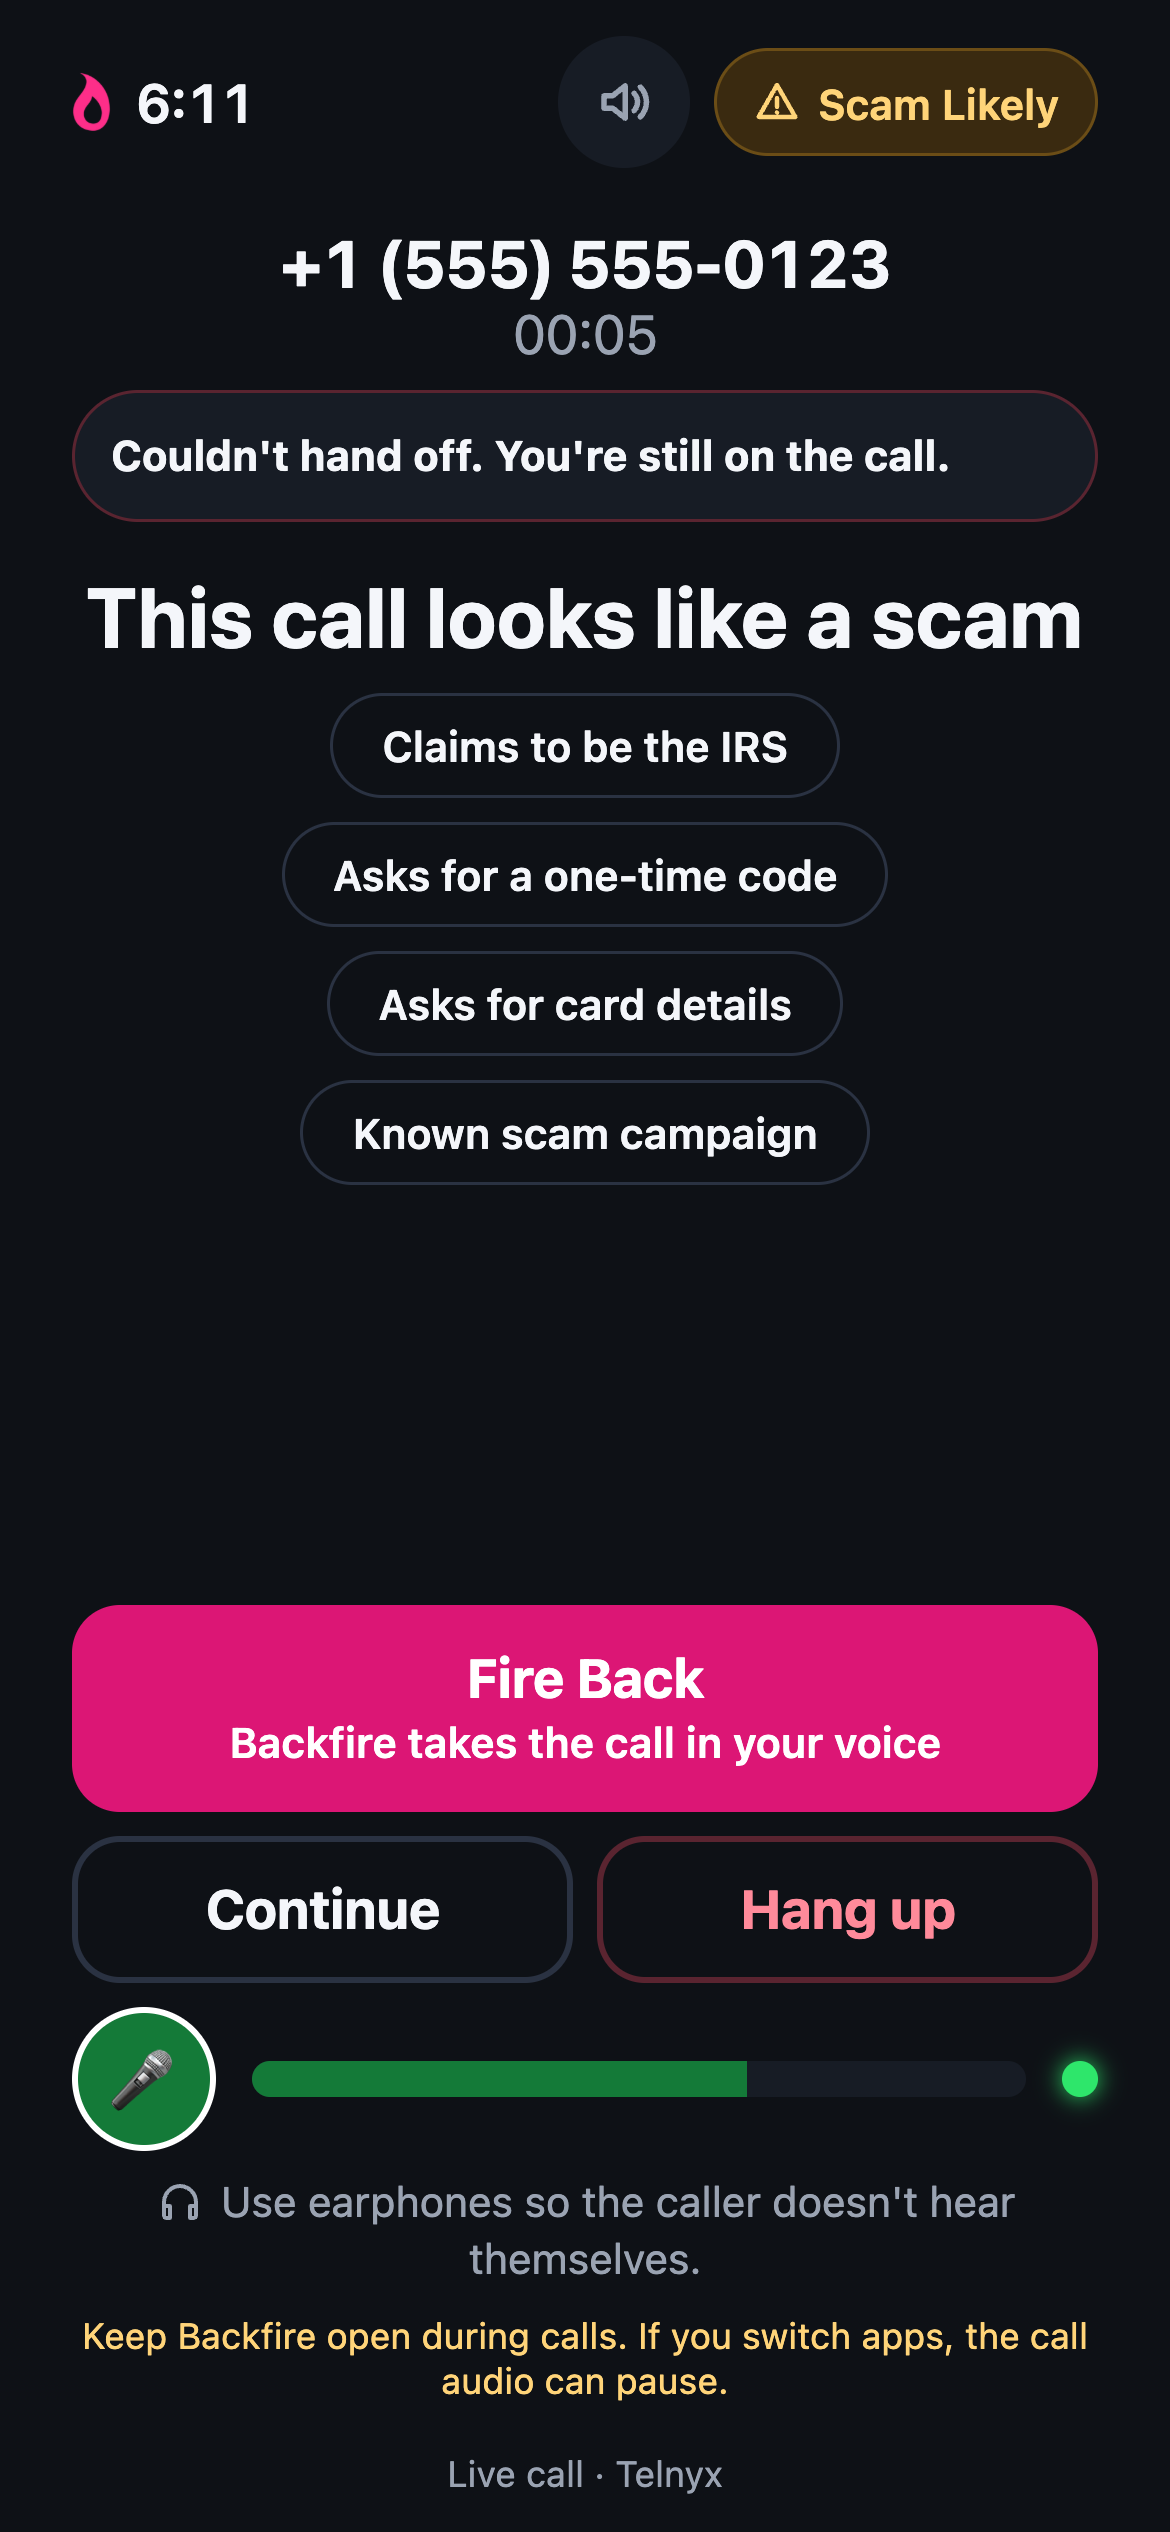
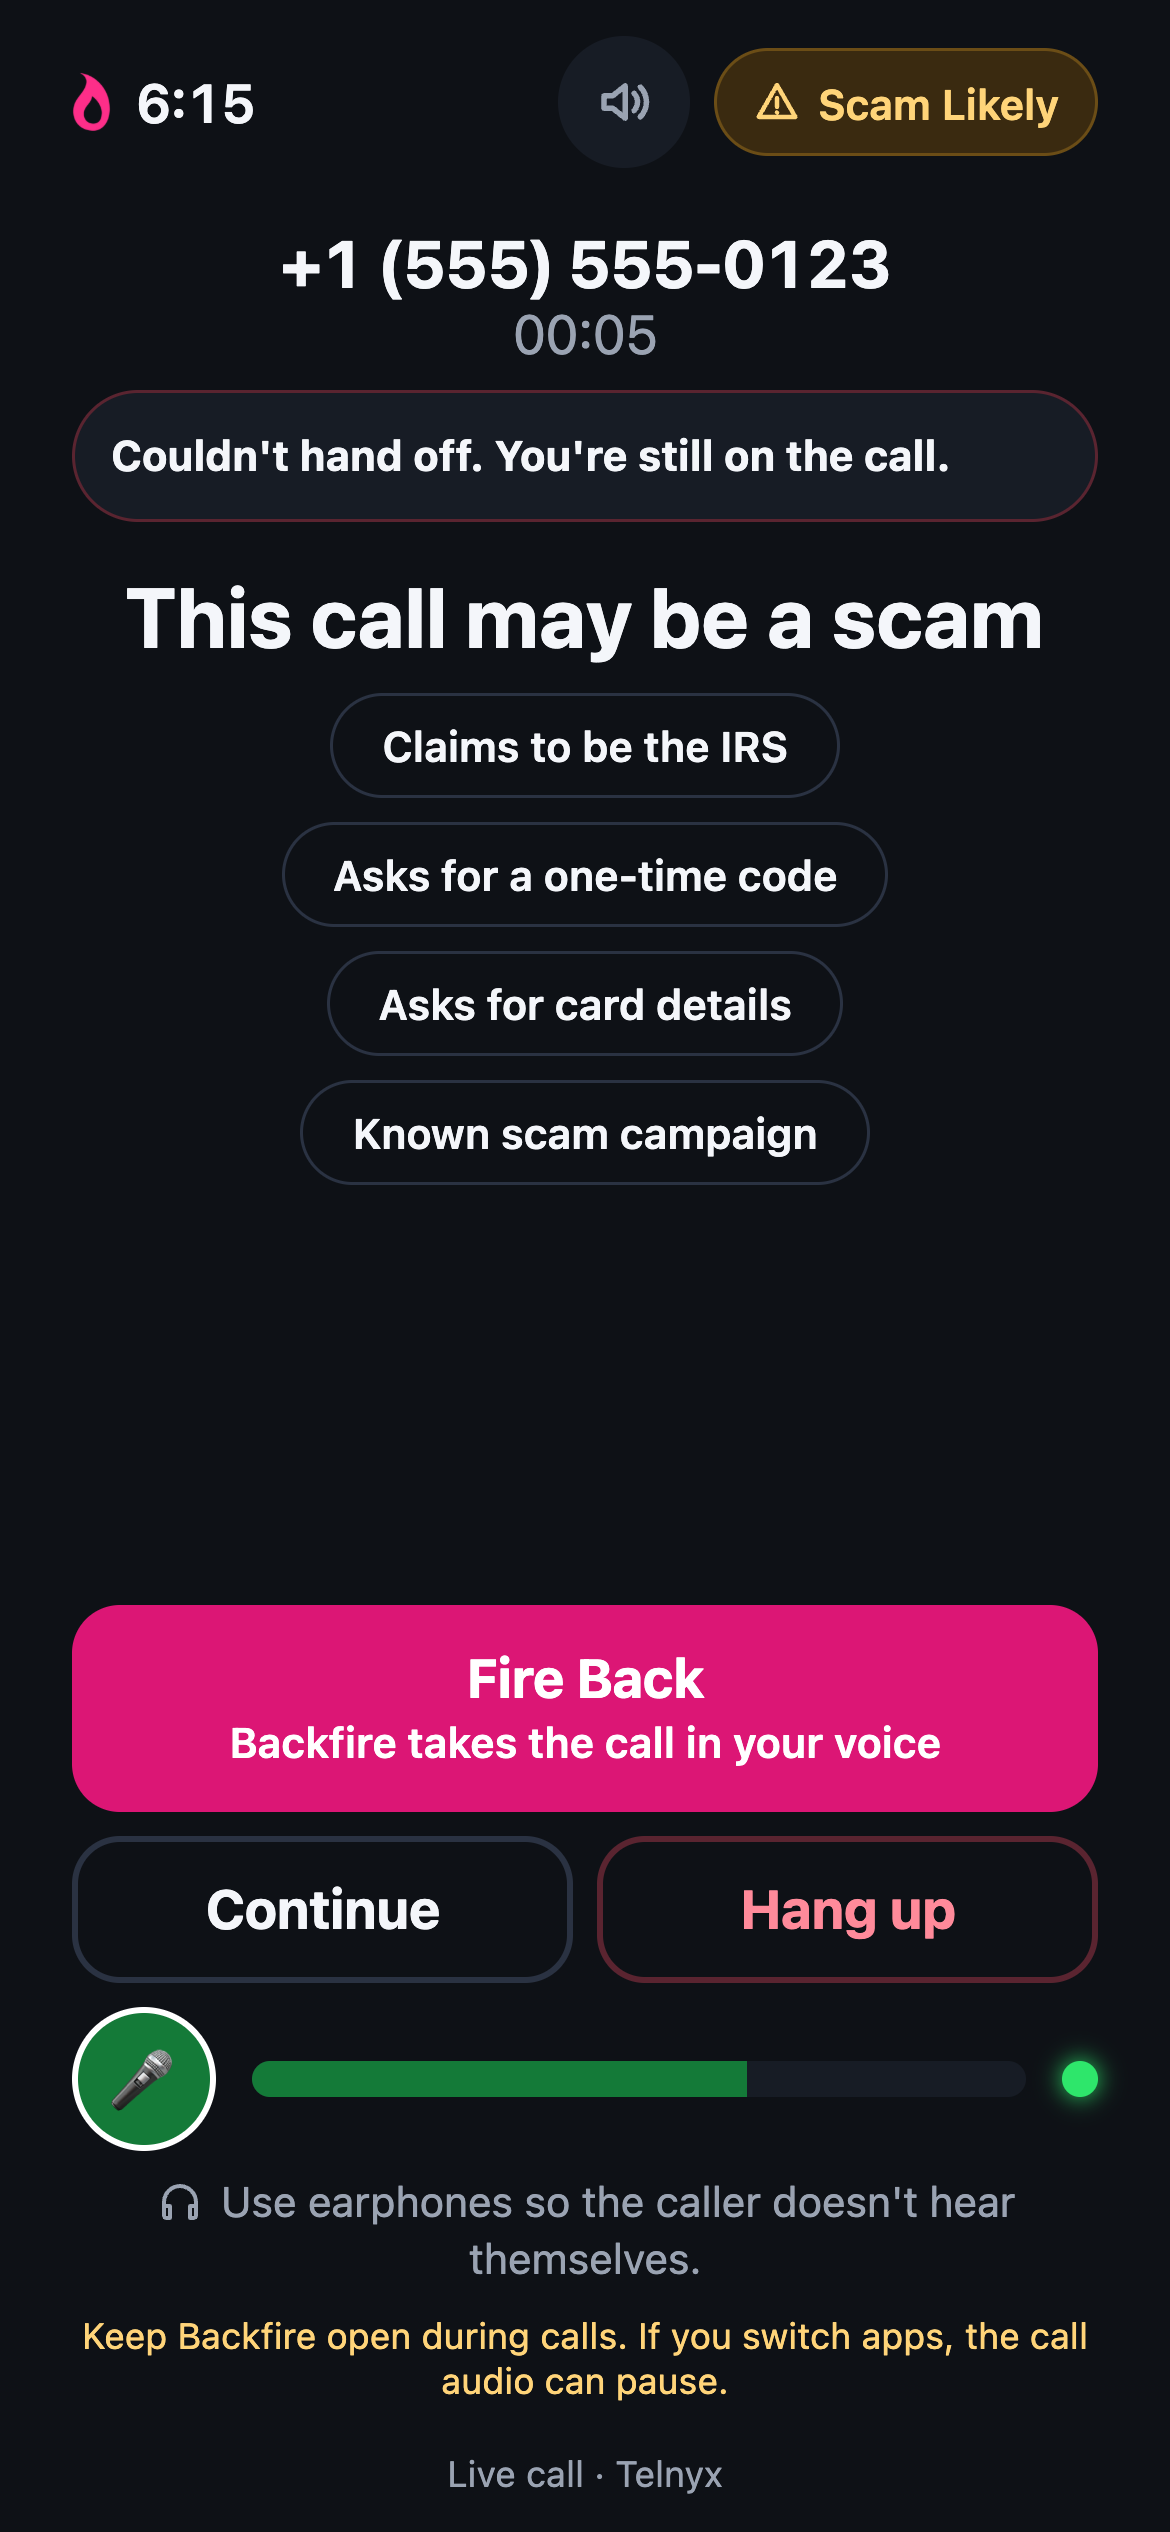
P1 copy: alert headline 'This call may be a scam' (soft alerts + restore make 'looks like' an overclaim); alert screens regenerated

Changed region(s): [[0.0615, 0.2184, 0.9231, 0.2808], [0.1846, 0.0312, 0.2154, 0.0624]]

diff --git a/web/customer/index.html b/web/customer/index.html
@@ -56,7 +56,7 @@ if (!Element.prototype.replaceChildren) Element.prototype.replaceChildren = func
     <div class="who"><h1 id="activeName">Unknown caller</h1><p class="number" id="timer">00:00</p></div>
 
     <div id="alertBox" class="alert" hidden role="alert" aria-live="assertive">
-      <h2 class="alert-title">This call looks like a scam</h2>
+      <h2 class="alert-title">This call may be a scam</h2>
       <p id="alertTag" class="alert-tag" hidden></p>
       <ul id="chips" class="chips"></ul>
       <div class="alert-actions">
